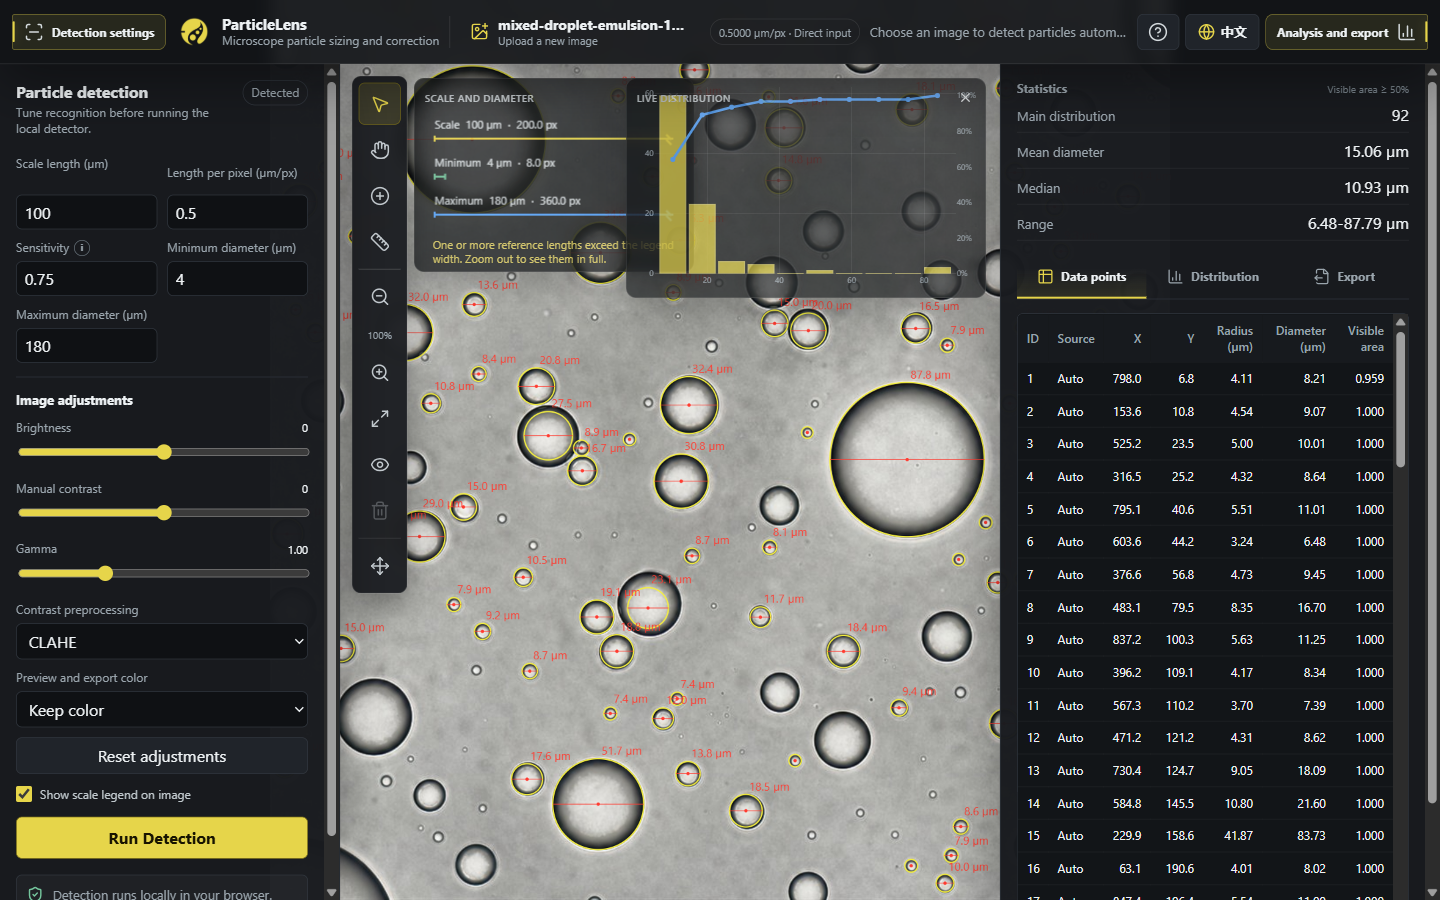
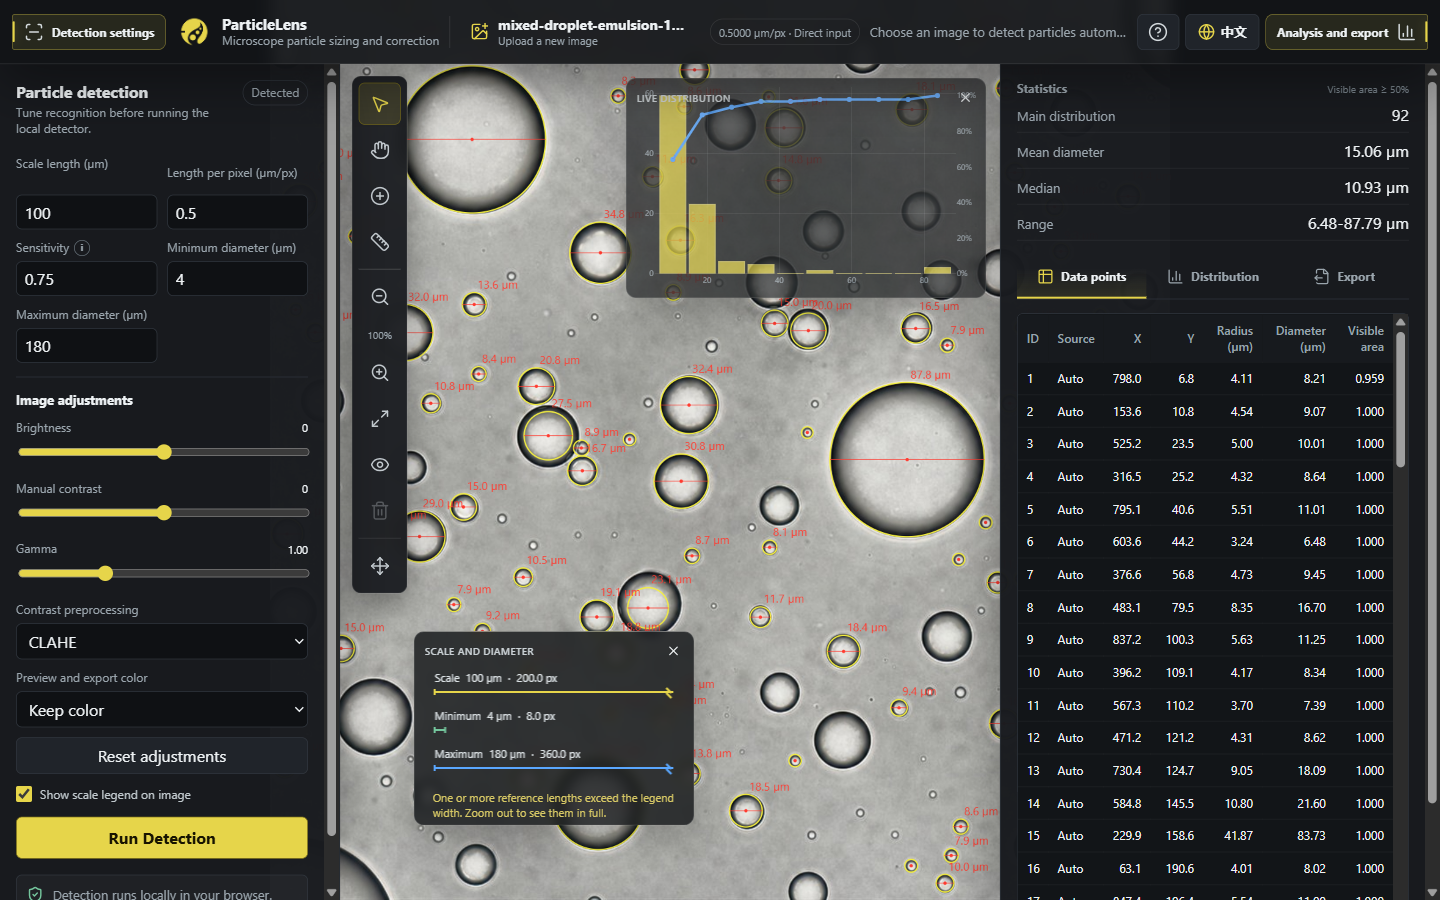
docs: separate guide overlays

Changed region(s): [[0.2812, 0.6844, 0.5, 0.9333], [0.2812, 0.0622, 0.5, 0.3111]]

diff --git a/docs/user-guide.md b/docs/user-guide.md
@@ -98,6 +98,10 @@ editing actions:
 - **Fit view**, **Zoom in**, and **Zoom out**: change the view without changing
   the measurements.
 
+The **Scale and diameter** and **Live distribution** overlays are movable. Drag
+either overlay by its title bar to keep an important image region visible, or
+select its close button to hide it.
+
 Use the question-mark button in the top bar for mouse and touch gestures. If you
 change detection or image-adjustment settings, the current circles remain
 visible for comparison; select **Run Detection** again to calculate a new
